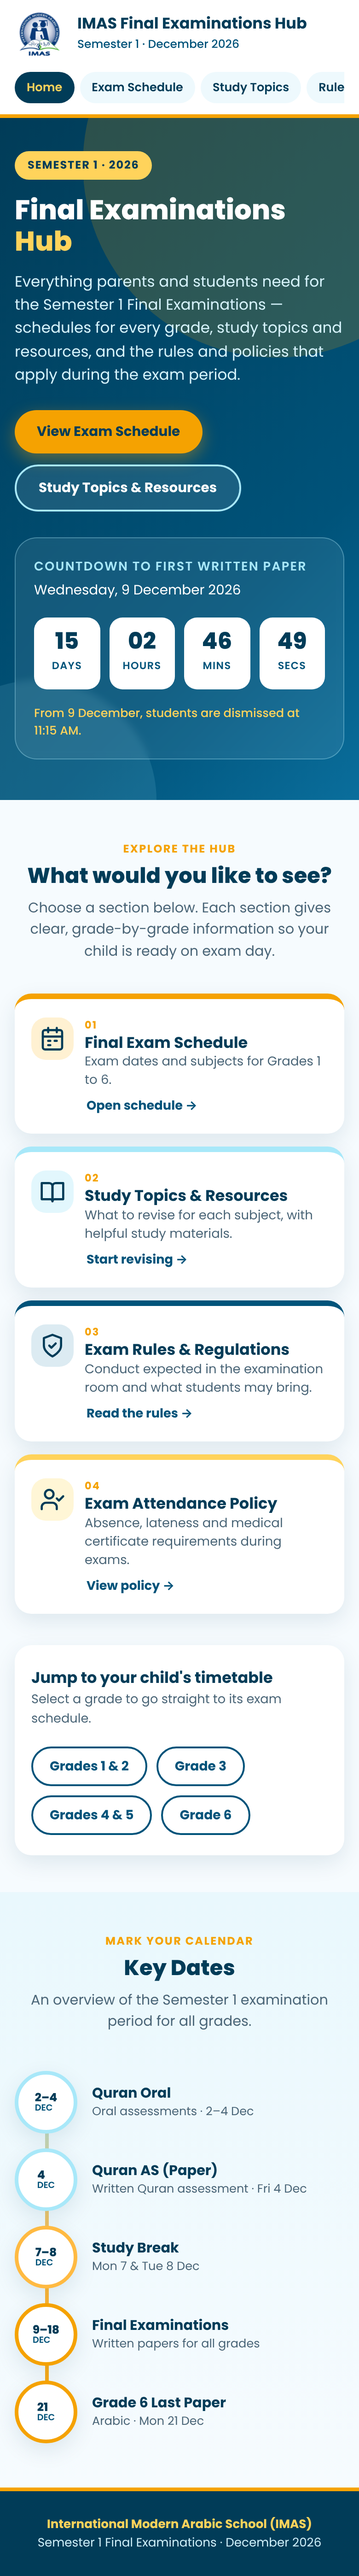
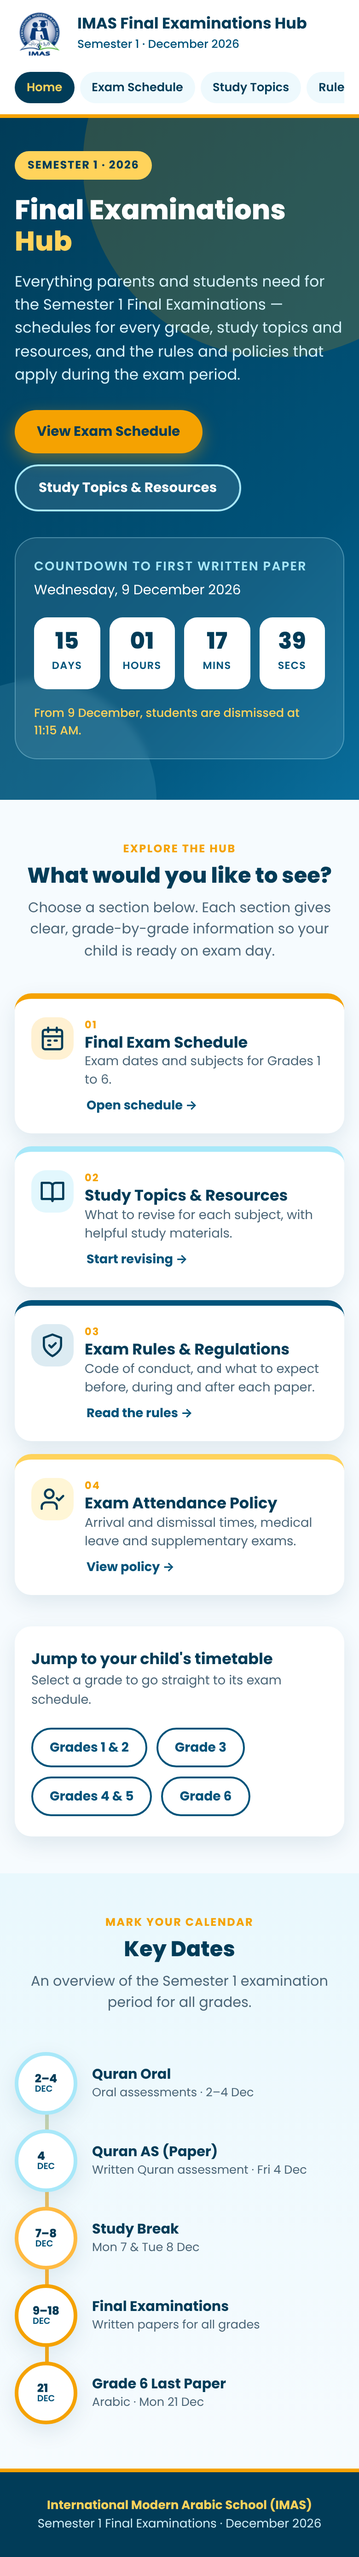
Add Exam Rules & Regulations and Attendance Policy tabs
Claude-Session: https://claude.ai/code/session_017sckVafi1eYcTJgytN5M8z

diff --git a/imas-exam-hub.html b/imas-exam-hub.html
@@ -20,7 +20,7 @@
   .wrap{max-width:1120px;margin:0 auto;padding:0 20px}
 
   /* ---------- Header / nav ---------- */
-  header{background:#fff;border-bottom:4px solid var(--orange);position:sticky;top:0;z-index:20}
+  body > header{background:#fff;border-bottom:4px solid var(--orange);position:sticky;top:0;z-index:20}
   .head{display:flex;align-items:center;gap:14px;padding:12px 20px;max-width:1120px;margin:0 auto}
   .head img{width:54px;height:54px;flex:none}
   .brand b{display:block;color:var(--navy);font-size:1.05rem;font-weight:700;line-height:1.2}
@@ -183,6 +183,41 @@
   .dismiss b{color:var(--navy);font-size:1rem;display:block}
   .dismiss p{color:var(--navy);font-size:.9rem}
   .dismiss strong{font-weight:800;font-size:1.05em}
+  /* ---------- Rules & Attendance tabs ---------- */
+  .jumps{display:grid;grid-template-columns:repeat(4,1fr);gap:8px}
+  .jumps button{border:2px solid #D3E9F2;background:#F4FBFE;color:var(--navy);font-weight:700;font-size:.88rem;padding:11px 8px;border-radius:14px;transition:all .15s}
+  .jumps button:hover{background:var(--navy);border-color:var(--navy);color:var(--sun)}
+  .rgrid{display:grid;grid-template-columns:repeat(2,1fr);gap:20px;margin-top:24px;align-items:start}
+  .rcard{background:#fff;border-radius:var(--radius);box-shadow:var(--shadow);border-top:6px solid var(--c);padding:24px;scroll-margin-top:110px}
+  .rcard header{display:flex;align-items:center;gap:14px;margin-bottom:14px}
+  .ri{flex:none;width:50px;height:50px;border-radius:14px;background:var(--cbg);display:grid;place-items:center}
+  .ri svg{width:26px;height:26px;stroke:var(--navy)}
+  .rcard small{font-size:.7rem;font-weight:700;color:var(--orange);letter-spacing:.1em;text-transform:uppercase}
+  .rcard h2{color:var(--navy);font-size:1.2rem;font-weight:800;line-height:1.25}
+  .rcard ol{list-style:none;counter-reset:r}
+  .rcard li{counter-increment:r;position:relative;padding:10px 0 10px 42px;font-size:.9rem;color:var(--ink);border-top:1px solid #EAF4F8}
+  .rcard li:first-child{border-top:0}
+  .rcard li::before{content:counter(r);position:absolute;left:0;top:9px;width:28px;height:28px;border-radius:50%;background:var(--cbg);color:var(--navy);font-weight:800;font-size:.78rem;display:grid;place-items:center}
+  .rcard li b{color:var(--navy)}
+  .times{display:grid;grid-template-columns:repeat(3,1fr);gap:14px;margin-top:-44px;position:relative;z-index:2}
+  .tm{background:#fff;border-radius:16px;box-shadow:var(--shadow);padding:18px 20px;border-bottom:5px solid var(--c);text-align:center}
+  .tm small{display:block;font-size:.72rem;font-weight:700;color:var(--muted);text-transform:uppercase;letter-spacing:.06em}
+  .tm b{color:var(--navy);font-size:1.45rem;font-weight:800}
+  .warn{margin-top:12px;background:#FFF4DC;border-left:5px solid var(--orange);border-radius:12px;padding:14px 16px}
+  .warn b{color:#9A5B00;font-size:.75rem;text-transform:uppercase;letter-spacing:.1em}
+  .warn p{font-size:.9rem;color:var(--ink);margin-top:4px}
+  .warn strong{color:var(--navy)}
+  @media (max-width:960px){ .rgrid{grid-template-columns:1fr} }
+  @media (max-width:760px){
+    .jumps{grid-template-columns:repeat(2,1fr)}
+    .jumps button{font-size:.8rem;padding:10px 6px}
+    .rcard{padding:20px 16px}
+    .rcard li{font-size:.88rem;padding-left:38px}
+    .times{grid-template-columns:repeat(3,1fr);gap:8px}
+    .tm{padding:12px 8px}
+    .tm small{font-size:.58rem}
+    .tm b{font-size:.98rem}
+  }
   .sched-foot{margin:26px 0 50px;font-size:.82rem;color:var(--muted);text-align:center}
   @media (max-width:760px){
     .page-hero{padding:30px 0 64px}
@@ -277,7 +312,7 @@
           <div class="txt">
             <div class="num">03</div>
             <h3>Exam Rules &amp; Regulations</h3>
-            <p>Conduct expected in the examination room and what students may bring.</p>
+            <p>Code of conduct, and what to expect before, during and after each paper.</p>
           </div>
           <span class="go">Read the rules →</span>
         </button>
@@ -286,7 +321,7 @@
           <div class="txt">
             <div class="num">04</div>
             <h3>Exam Attendance Policy</h3>
-            <p>Absence, lateness and medical certificate requirements during exams.</p>
+            <p>Arrival and dismissal times, medical leave and supplementary exams.</p>
           </div>
           <span class="go">View policy →</span>
         </button>
@@ -362,8 +397,119 @@
   </div>
 </div>
 <div class="panel" id="topics"><div class="wrap"><div class="soon"><h2>Study Topics &amp; Resources</h2><p>Content for this section is being prepared.</p><button class="btn btn-primary" data-tab="home">← Back to Home</button></div></div></div>
-<div class="panel" id="rules"><div class="wrap"><div class="soon"><h2>Exam Rules &amp; Regulations</h2><p>Content for this section is being prepared.</p><button class="btn btn-primary" data-tab="home">← Back to Home</button></div></div></div>
-<div class="panel" id="attendance"><div class="wrap"><div class="soon"><h2>Exam Attendance Policy</h2><p>Content for this section is being prepared.</p><button class="btn btn-primary" data-tab="home">← Back to Home</button></div></div></div>
+<div class="panel" id="rules">
+  <div class="page-hero"><div class="wrap">
+    <span class="tag">Section 03</span>
+    <h1>Exam Rules &amp; Regulations</h1>
+    <p>Please go through these rules with your child so they know what is expected of them before, during and after every paper.</p>
+  </div></div>
+  <div class="wrap">
+    <div class="picker jumpbar">
+      <label>Jump to</label>
+      <div class="jumps">
+        <button data-jump="r-conduct">Code of Conduct</button>
+        <button data-jump="r-before">Before the Exam</button>
+        <button data-jump="r-during">During the Exam</button>
+        <button data-jump="r-after">After the Exam</button>
+      </div>
+    </div>
+
+    <div class="rgrid">
+      <article class="rcard" id="r-conduct" style="--c:var(--navy);--cbg:#DCEBF2">
+        <header><div class="ri"><svg viewBox="0 0 24 24" fill="none" stroke-width="2" stroke-linecap="round" stroke-linejoin="round"><path d="M12 22s8-4 8-10V5l-8-3-8 3v7c0 6 8 10 8 10z"/><path d="m9 12 2 2 4-4"/></svg></div><div><small>Part 1</small><h2>Code of Conduct</h2></div></header>
+        <ol>
+          <li>Students are expected to be present at the examination hall <b>at least 30 minutes before</b> the start of the examination.</li>
+          <li>Students should observe <b>silence at ALL times</b> during the examination.</li>
+          <li>The teacher-invigilator reserves the right to expel any student from the exam hall if he/she misbehaves during the examination, after consultation with the level supervisors.</li>
+          <li><b>Unauthorised materials are NOT allowed.</b></li>
+          <li><b>No food or drinks are allowed.</b> Only water bottles without labels are allowed.</li>
+          <li>Any student who attempts to cheat will be dealt with severely.</li>
+          <li>Students sitting for the examination must adhere to the school rules with regard to <b>attire, hairstyle and accessories</b>.</li>
+        </ol>
+      </article>
+
+      <article class="rcard" id="r-before" style="--c:var(--orange);--cbg:#FFF1D2">
+        <header><div class="ri"><svg viewBox="0 0 24 24" fill="none" stroke-width="2" stroke-linecap="round" stroke-linejoin="round"><path d="M9 11l3 3L22 4"/><path d="M21 12v7a2 2 0 0 1-2 2H5a2 2 0 0 1-2-2V5a2 2 0 0 1 2-2h11"/></svg></div><div><small>Part 2</small><h2>Before the Exam</h2></div></header>
+        <ol>
+          <li>All students must be present and seated at their designated desks before the starting time. <b>Once the exam starts, no latecomers will be allowed in.</b></li>
+          <li>Authorised examination tools and equipment (pens, pencils, erasers, etc.) are to be set out on the desks. It is recommended to have <b>extra pens and pencils</b>.</li>
+          <li>All books, notebooks and scraps of paper should be removed from the desks and placed inside students’ bags. All bags are to be placed neatly in a row at the back of the classroom.</li>
+          <li>Students are to check their pockets to ensure that there are no scraps of paper, notes or books in their possession.</li>
+          <li><b>Electronic gadgets and communication devices</b>, such as (but not limited to) mobile phones, are <b>NOT allowed</b>.</li>
+          <li>Students should use the washroom before arriving for their exam, as they will <b>not be permitted to leave during the first half</b> of the exam.</li>
+          <li>No extra time will be given to latecomers, even with an excuse. Students who report <b>30 minutes after the exam has started will not be allowed to sit for the paper</b>.</li>
+          <li>While exam papers are being distributed, students are to wait for the invigilator’s permission to start the exam all together.</li>
+          <li>Listen to the invigilator’s instructions carefully before the exam, and read the exam paper instructions immediately upon receiving the question paper.</li>
+          <li>Students are to ensure they have been given the correct paper and the correct number of pages.</li>
+        </ol>
+      </article>
+
+      <article class="rcard" id="r-during" style="--c:var(--blue);--cbg:#E2F7FD">
+        <header><div class="ri"><svg viewBox="0 0 24 24" fill="none" stroke-width="2" stroke-linecap="round" stroke-linejoin="round"><path d="M12 20h9"/><path d="M16.5 3.5a2.1 2.1 0 0 1 3 3L7 19l-4 1 1-4z"/></svg></div><div><small>Part 3</small><h2>During the Exam</h2></div></header>
+        <ol>
+          <li><b>Do not communicate with other students.</b> If there are queries, students are to raise their hands and clarify with the invigilator.</li>
+          <li>Students are not permitted to share any materials during the examination.</li>
+          <li>Students should ensure that their exam sheets and answers cannot be read by other students.</li>
+          <li>Students who are caught cheating or attempting to cheat will be <b>dealt with severely</b>.</li>
+          <li>Students need to ensure all sheets and questions are answered and checked before they end their exam.</li>
+          <li>Students must <b>stop writing immediately</b> when the invigilator announces the end of the examination.</li>
+        </ol>
+      </article>
+
+      <article class="rcard" id="r-after" style="--c:var(--amber);--cbg:#FFF6D6">
+        <header><div class="ri"><svg viewBox="0 0 24 24" fill="none" stroke-width="2" stroke-linecap="round" stroke-linejoin="round"><path d="M9 21H5a2 2 0 0 1-2-2V5a2 2 0 0 1 2-2h4"/><path d="m16 17 5-5-5-5"/><path d="M21 12H9"/></svg></div><div><small>Part 4</small><h2>After the Exam</h2></div></header>
+        <ol>
+          <li>At the end of each paper, remain quiet and seated. Ensure that all exam papers are handed in as instructed by the invigilator.</li>
+          <li>No student is allowed to take any writing paper, used or unused, out of the examination room.</li>
+          <li><b>No one is allowed to leave the examination hall before the end of the time allotted</b> for the paper.</li>
+          <li>Before leaving the exam hall, ensure that your desk is clean and in line with the desk in front of you. Push the chair back under the desk.</li>
+          <li>Leave the examination hall quickly and quietly. Remember to <b>take all your belongings</b> with you.</li>
+        </ol>
+      </article>
+    </div>
+    <div style="height:50px"></div>
+  </div>
+</div>
+<div class="panel" id="attendance">
+  <div class="page-hero"><div class="wrap">
+    <span class="tag">Section 04</span>
+    <h1>Exam Attendance Policy</h1>
+    <p>Regular, punctual attendance makes sure every student has a fair chance to sit each paper. Please read this policy carefully.</p>
+  </div></div>
+  <div class="wrap">
+    <div class="times">
+      <div class="tm" style="--c:var(--sky)"><small>Arrive before</small><b>8:00 AM</b></div>
+      <div class="tm" style="--c:var(--orange)"><small>Exams start</small><b>8:20 AM</b></div>
+      <div class="tm" style="--c:var(--blue)"><small>Dismissal on exam days</small><b>11:15 AM</b></div>
+    </div>
+
+    <div class="rgrid">
+      <article class="rcard" style="--c:var(--blue);--cbg:#E2F7FD">
+        <header><div class="ri"><svg viewBox="0 0 24 24" fill="none" stroke-width="2" stroke-linecap="round" stroke-linejoin="round"><circle cx="12" cy="12" r="10"/><path d="M12 6v6l4 2"/></svg></div><div><small>Part 1</small><h2>Attendance During Examinations</h2></div></header>
+        <ol>
+          <li>Students sitting for the exam must adhere to the school rules with regard to <b>attire, hairstyle and accessories</b>.</li>
+          <li>Students are to attend school as normal, <b>before 8:00 AM</b>. Exams will start at <b>8:20 AM</b>.</li>
+          <li>Students who report to school <b>30 minutes after the paper has started will NOT be allowed to sit for the paper</b>.</li>
+          <li>Students will be dismissed at <b>11:15 AM</b> on exam days.</li>
+        </ol>
+      </article>
+
+      <article class="rcard" style="--c:var(--orange);--cbg:#FFF1D2">
+        <header><div class="ri"><svg viewBox="0 0 24 24" fill="none" stroke-width="2" stroke-linecap="round" stroke-linejoin="round"><path d="M14 2H6a2 2 0 0 0-2 2v16a2 2 0 0 0 2 2h12a2 2 0 0 0 2-2V8z"/><path d="M14 2v6h6M12 18v-6M9 15h6"/></svg></div><div><small>Part 2</small><h2>Absence &amp; Medical Leave</h2></div></header>
+        <ol>
+          <li>In case of illness requiring medical leave, students must provide an <b>official medical certificate</b>. Upon returning to school, students must report to their respective class teacher with the certificate.</li>
+          <li>Students with a valid medical certificate or pre-approved leave will be scheduled for <b>supplementary exams</b>.</li>
+        </ol>
+        <div class="warn">
+          <b>Important</b>
+          <p>Any student absent from an exam without an official medical certificate or pre-approved leave will <strong>receive a zero</strong>. Notes from parents or guardians will <strong>not</strong> be accepted as valid excuses.</p>
+          <p>Failure to attend the supplementary exam will result in a <strong>zero mark</strong> for that paper.</p>
+        </div>
+      </article>
+    </div>
+    <div style="height:50px"></div>
+  </div>
+</div>
 </main>
 
 <footer>
@@ -519,6 +665,14 @@
   });
   var saved = 'g12'; try { saved = localStorage.getItem('imasGrade') || 'g12'; } catch(e){}
   renderSchedule(SCHED[saved] ? saved : 'g12');
+
+  // ---- Jump-to buttons on the Rules tab ----
+  document.querySelectorAll('[data-jump]').forEach(function(b){
+    b.addEventListener('click', function(){
+      var el = document.getElementById(b.dataset.jump);
+      if (el) el.scrollIntoView({behavior:'smooth', block:'start'});
+    });
+  });
 })();
 </script>
 </body>
